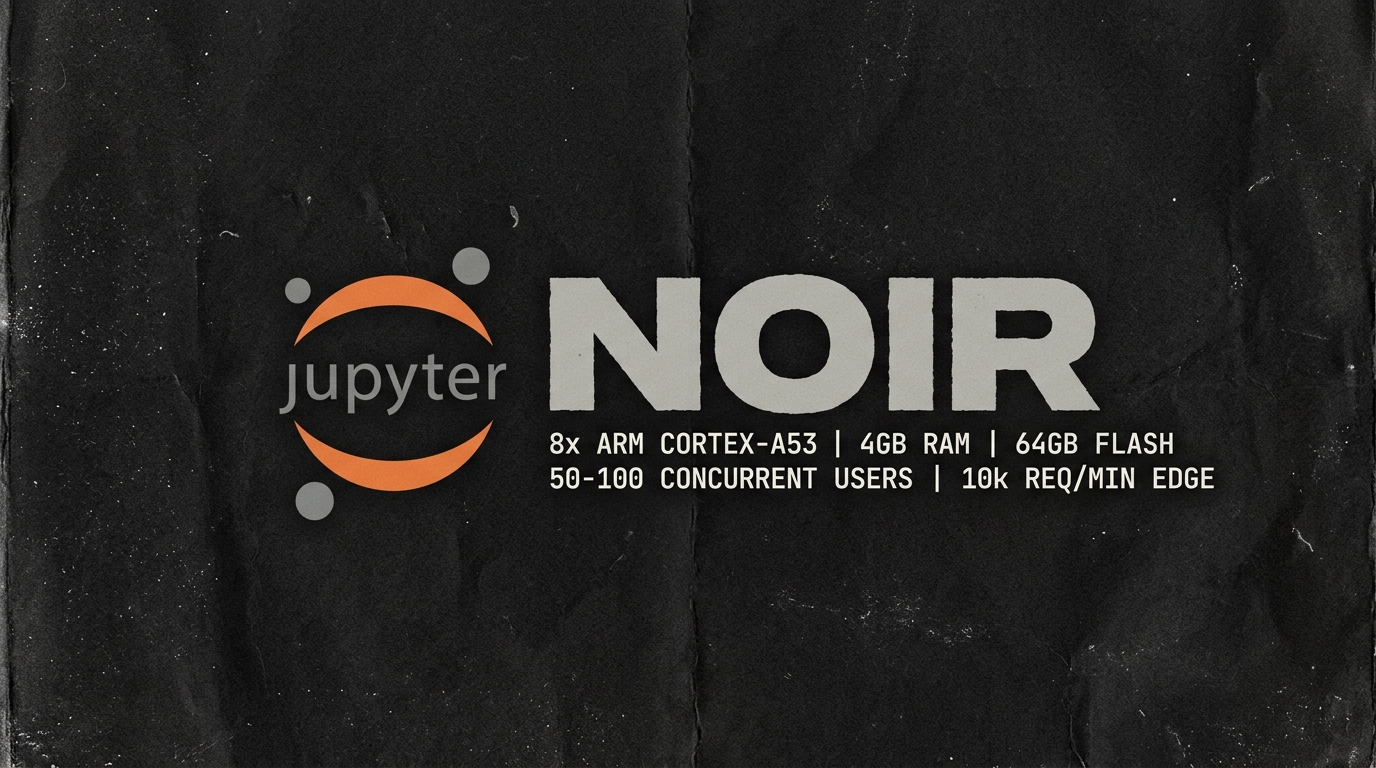
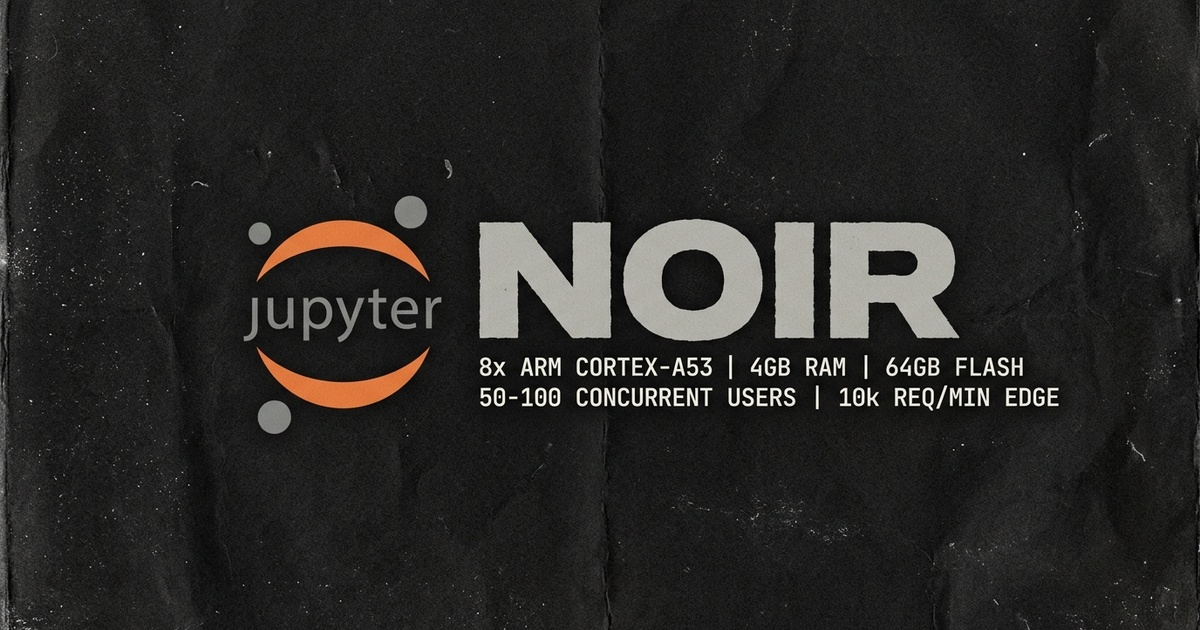
fix(og): resize OpenGraph cards to exact 1.91:1 (1200x630) to eliminate letterboxing and cropping

diff --git a/functions/_proxy.js b/functions/_proxy.js
@@ -6,7 +6,7 @@
 const GITHUB_ENDPOINT_URL = "https://raw.githubusercontent.com/Electroiscoding/phone-whisper-server/main/endpoint.json";
 const GITHUB_API_ENDPOINT_URL = "https://api.github.com/repos/Electroiscoding/phone-whisper-server/contents/endpoint.json";
 const JSDELIVR_ENDPOINT_URL = "https://cdn.jsdelivr.net/gh/Electroiscoding/phone-whisper-server@main/endpoint.json";
-const DEFAULT_FALLBACK_ORIGIN = "https://fllcz-2405-201-801a-98b2-ff90-d939-9f72-7656.run.pinggy-free.link";
+const DEFAULT_FALLBACK_ORIGIN = "https://oecas-2405-201-801a-98b2-ff90-d939-9f72-7656.run.pinggy-free.link";
 
 let liveRegisteredOrigin = null;
 let lastRegisteredTime = 0;

diff --git a/notebook.html b/notebook.html
@@ -23,8 +23,8 @@
   <meta property="og:image" content="https://phone-whisper-server.pages.dev/noir_og.jpg">
   <meta property="og:image:secure_url" content="https://phone-whisper-server.pages.dev/noir_og.jpg">
   <meta property="og:image:type" content="image/jpeg">
-  <meta property="og:image:width" content="1280">
-  <meta property="og:image:height" content="720">
+  <meta property="og:image:width" content="1200">
+  <meta property="og:image:height" content="630">
   <meta property="og:image:alt" content="NOIR Sovereign Notebook Card">
 
   <!-- Twitter / X -->

diff --git a/stats.html b/stats.html
@@ -19,8 +19,8 @@
   <meta property="og:image" content="https://phone-whisper-server.pages.dev/noir_og.jpg">
   <meta property="og:image:secure_url" content="https://phone-whisper-server.pages.dev/noir_og.jpg">
   <meta property="og:image:type" content="image/jpeg">
-  <meta property="og:image:width" content="1280">
-  <meta property="og:image:height" content="720">
+  <meta property="og:image:width" content="1200">
+  <meta property="og:image:height" content="630">
   <meta property="og:image:alt" content="NOIR Telemetry and Specs">
 
   <!-- Twitter / X -->
